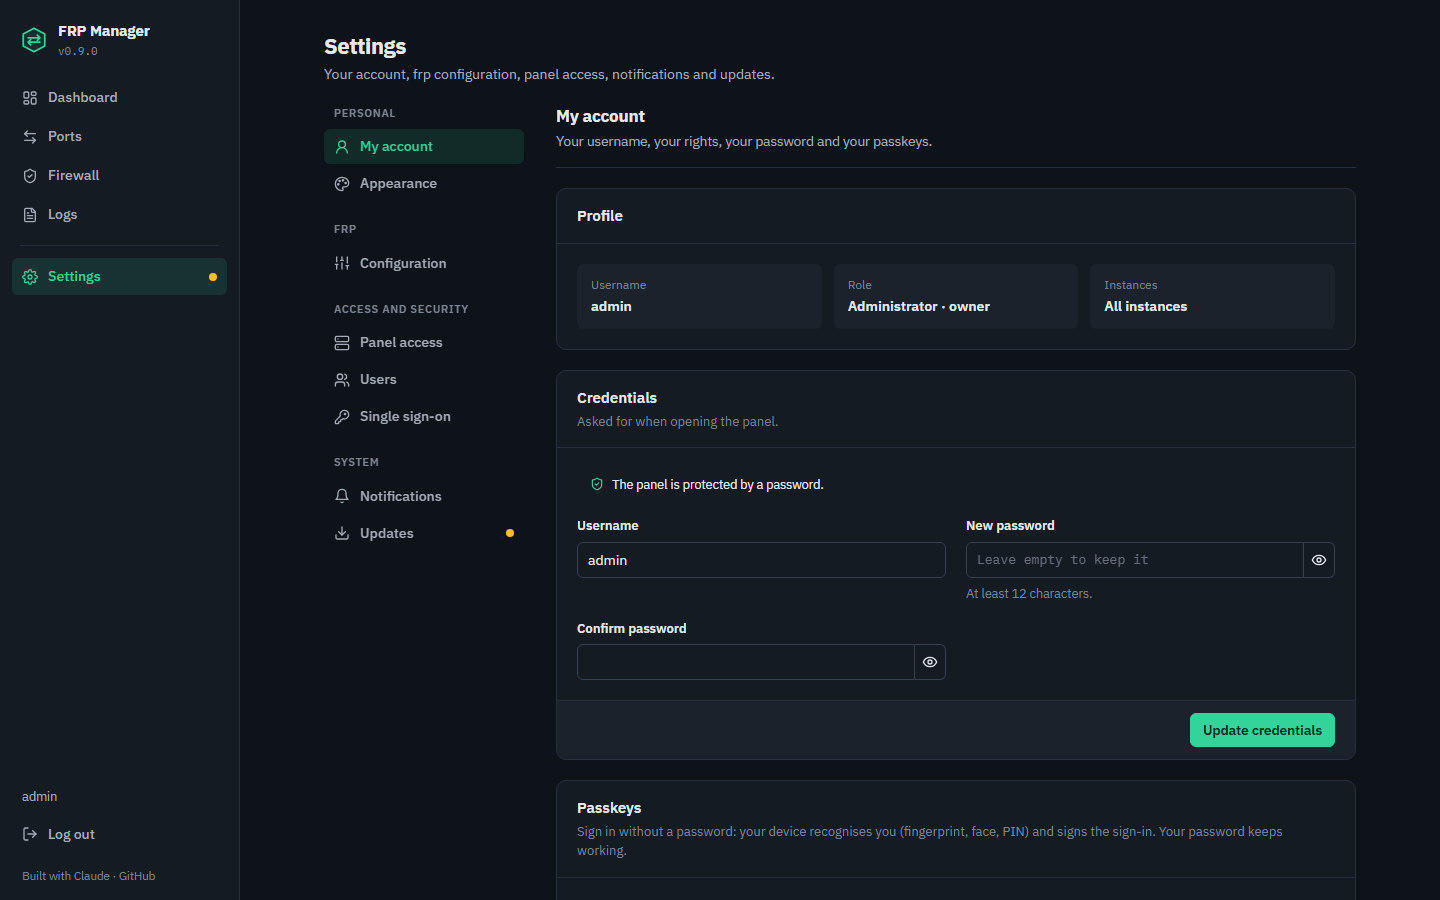
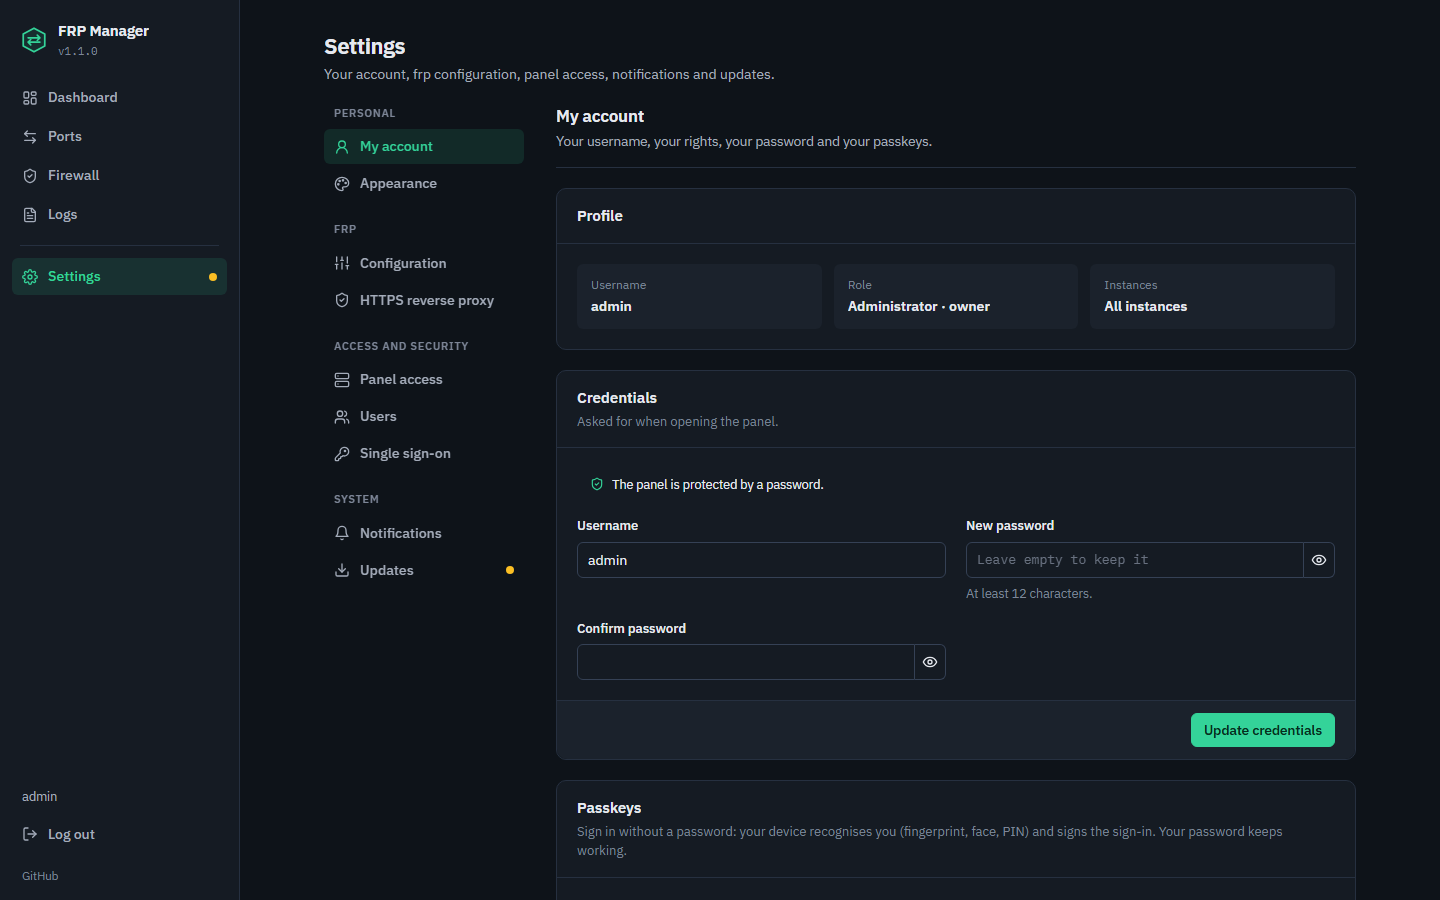
Images : captures refaites avec l’interface 1.1, SECURITY sur l’écoute 0.0.0.0 / Images: screenshots retaken with the 1.1 interface, SECURITY on listening on 0.0.0.0
Les captures des README dataient de la 0.9.0 : refaites depuis la démo, thème
sombre, en français, anglais et chinois (1 440 × 900). La politique de sécurité
recommande désormais de repasser bind_host sur 127.0.0.1 pour limiter le panel
à la machine, l’écoute par défaut étant 0.0.0.0.

README screenshots were from 0.9.0: retaken from the demo, dark theme, in
French, English and Chinese (1440 × 900). The security policy now recommends
setting bind_host back to 127.0.0.1 to keep the panel on the machine, since the
default is 0.0.0.0.

diff --git a/.github/SECURITY.md b/.github/SECURITY.md
@@ -105,9 +105,10 @@ soon as possible. The report is credited in the release notes if you wish.
 
 **Recommendations**
 
-1. Keep the panel on `127.0.0.1` (the default for a new install) and reach it
-   through an SSH tunnel, a VPN or a reverse proxy.
-2. If you open it to the network, create the account right away and filter
+1. A new install listens on `0.0.0.0`. Set `bind_host` to `127.0.0.1` (or
+   `FRP_MANAGER_HOST=127.0.0.1` with Docker) to keep it on the machine, and
+   reach it through an SSH tunnel, a VPN or a reverse proxy.
+2. If it stays open to the network, create the account right away and filter
    access by IP.
 3. Use a long, unique password, and a long, unique frp token per server.
 4. Disable third-party mirrors (Settings → Panel access) if github.com is
